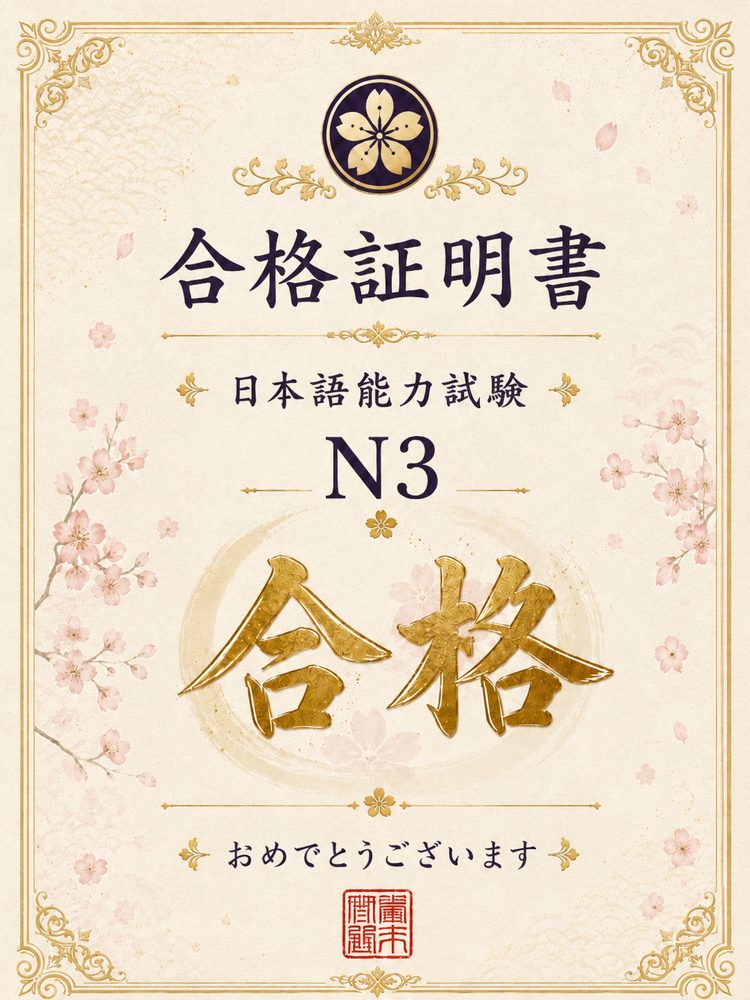
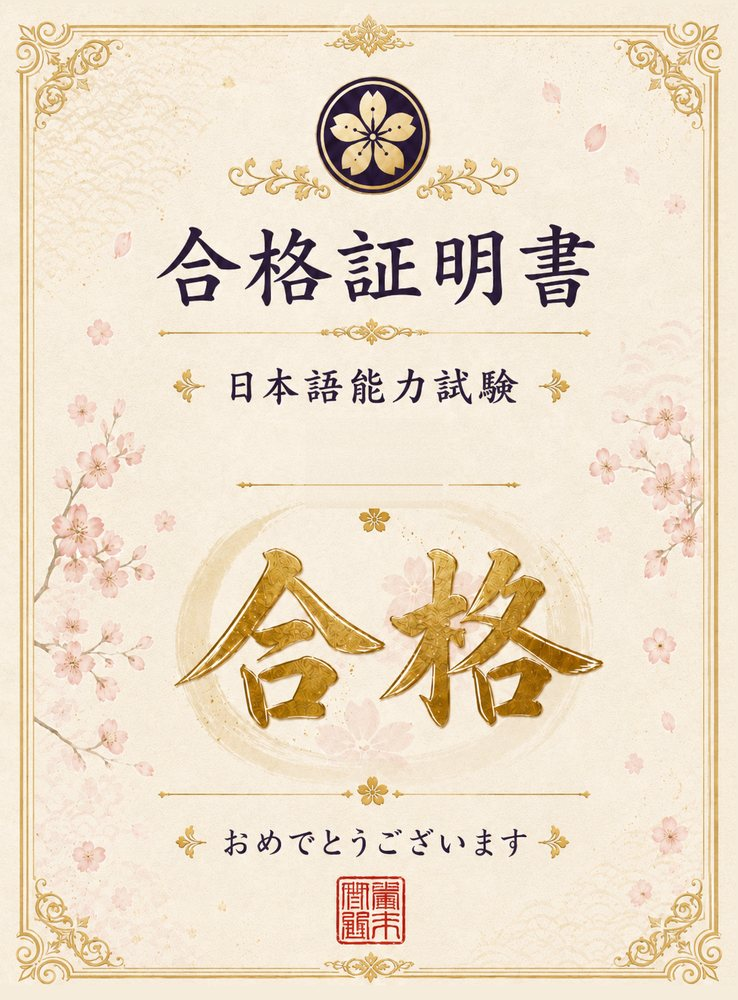
feat(模試/証明書): 証明書のN3を消しレベル文字をアプリ側で重ねてN5/N4/N3に追従(元N3と同位置・濃紺セリフ)＋証明書の4辺余白を統一(下端1px→上下左右そろえ・合格/不合格共通で再最適化)＋結果画面の証明書を中央やや上・程よい大きさに再配置(はみ出し無し・実素材で原寸目視確認済)

diff --git a/src/screens/MockScreen.tsx b/src/screens/MockScreen.tsx
@@ -1,7 +1,7 @@
 // ミニ模試(言語知識20問) / フル模試(全区分=漢字語彙＋文法＋読解＋聴解)。本番形式・客観採点(重み5)。
 // 採点後: 区分別の弱点ヒートマップ → 語彙/文法の弱点だけ復習(Quiz)へ。掲示板§5(UWorld閉ループ)。
 import { useEffect, useMemo, useRef, useState } from 'react';
-import { View, Text, Pressable, StyleSheet, ScrollView, Image, Animated, useWindowDimensions, Alert } from 'react-native';
+import { View, Text, Pressable, StyleSheet, ScrollView, Image, Animated, useWindowDimensions, Alert, Platform } from 'react-native';
 import { SafeAreaView } from 'react-native-safe-area-context';
 import { useNavigation, useRoute, type RouteProp } from '@react-navigation/native';
 import type { NativeStackNavigationProp } from '@react-navigation/native-stack';
@@ -509,9 +509,11 @@ export default function MockScreen() {
     const passed = preview ? preview === 'pass' : (isJft ? !!jftSc?.pass : passJlpt(answers, level));
     // 証明書サイズは画面の縦横の両方で必ず収める(はみ出し防止)。証明書=縦長(3:4=750/1000)。
     const heroW = winW - spacing.lg * 2;                       // 本文パディング内の実幅
-    const certH = Math.round(Math.min(winH * 0.30, heroW * 0.9)); // 高さは画面の30%以内かつ幅からも制限
-    const certW = Math.round(certH * 0.75);                    // 3:4
-    const heroH = Math.round(winH * 0.42);                     // ヒーローの高さ(画面の42%以内・証明書より必ず高い)
+    const certH = Math.round(Math.min(winH * 0.30, heroW * 0.85)); // 程よい大きさ(画面の30%以内かつ幅からも制限)
+    const certW = Math.round(certH * 0.738);                   // 証明書画像の実アスペクト(余白統一後 738/1000)
+    const heroH = Math.round(winH * 0.52);                     // ヒーロー高さ(証明書を中央やや上に置ける縦を確保)
+    const certTop = Math.max(spacing.md, Math.round(heroH * 0.44 - certH / 2)); // 真ん中より少し上
+    const lvlFs = Math.round(certH * 0.105);                   // 証明書に重ねるレベル文字(元N3と同位置・同程度)
     return (
       <SafeAreaView style={s.c}>
         <ScrollView contentContainerStyle={s.body}>
@@ -525,7 +527,11 @@ export default function MockScreen() {
           <View style={[s.certHero, { height: heroH }]}>
             {/* 終了画像はヒーロー枠と同サイズ(cover)。枠外へはみ出さない(Androidの overflow 事情に依存しない安全策)。 */}
             <Image source={IMG_END} style={StyleSheet.absoluteFill} resizeMode="cover" />
-            <Image source={passed ? IMG_CERT_PASS : IMG_CERT_FAIL} style={{ width: certW, height: certH, marginTop: spacing.md }} resizeMode="contain" />
+            {/* 証明書＋レベル文字。証明書はN3を消してあり、ここにレベルを重ねる(元N3と同位置)。 */}
+            <View style={{ width: certW, height: certH, marginTop: certTop }}>
+              <Image source={passed ? IMG_CERT_PASS : IMG_CERT_FAIL} style={StyleSheet.absoluteFill} resizeMode="contain" />
+              <Text style={[s.certLevel, { fontSize: lvlFs, lineHeight: lvlFs, top: Math.round(certH * 0.462 - lvlFs * 0.62) }]}>{level}</Text>
+            </View>
           </View>
           {preview ? <Text style={s.previewNote}>{t('mock.preview_note')}</Text> : null}
           {!preview && (<>
@@ -788,6 +794,8 @@ const makeStyles = (c: ThemeColors) =>
     calcPct: { fontSize: ty.h1, fontWeight: '900', color: c.blue, fontVariant: ['tabular-nums'] },
     // 合否証明書(結果画面上部・模試終了画面を背景に空の辺りへ重ねる)
     certHero: { width: '100%', borderRadius: radius.lg, overflow: 'hidden', backgroundColor: '#cfe3f5', alignItems: 'center', justifyContent: 'flex-start', marginBottom: spacing.md },
+    // 証明書に重ねるレベル文字(元N3の位置・濃紺のセリフ体で証明書に馴染ませる)
+    certLevel: { position: 'absolute', left: 0, right: 0, textAlign: 'center', color: '#1e1e3c', fontWeight: '800', letterSpacing: 1, fontFamily: Platform.OS === 'ios' ? 'Georgia' : 'serif' },
     previewNote: { fontSize: ty.small, color: c.amber, fontWeight: '800', textAlign: 'center', marginTop: spacing.xs },
     promptCard: {
       backgroundColor: c.surface, borderRadius: radius.lg, borderWidth: 1, borderColor: c.line,

diff --git a/memory/session-summary-LATEST.md b/memory/session-summary-LATEST.md
@@ -1,15 +1,15 @@
 # 前セッション圧縮情報
 
 ## 何をしたか
-- ツール呼び出し 14 回・36 ターン
-- 往復 41785 回
+- ツール呼び出し 5 回・13 ターン
+- 往復 41868 回
 
 ## 何が変わったか
 - memory/handoff.md
+- memory/session-summary-LATEST.md
 - content/_manifest.json
 - src/data/content/bundled.generated.ts
-- src/screens/MockScreen.tsx
-- src/i18n/ja.json
+- src/screens/MockIntroScreen.tsx
 
 ## 次の一手
 - **📜 プライバシーポリシー/利用規約の改訂＝引き継ぎ資料あり・未着手（2026-08-09）**: 現行`privacy.html`は「収集しない」前提で**内容が古い**（その後アカウント/クラウド同期/AdMob広告/友だち・紹介が入った）→全面改訂＋`terms.html`新規作成＋App Store/Google Playのプライバシー申告更新が必要。**記載すべき全項目＝`md\プライバシーポリシー_利用規約_記載事項.md`**（第三者=Supabase東京/AdMob/Apple・Google認証/GitHub Pages、ATT、削除依頼、EEA向けUMP等）。次セッションはこのmdから着手。

diff --git a/memory/handoff.md b/memory/handoff.md
@@ -49,14 +49,14 @@
 - a83565e1b69fe6554 general-purpose
 
 ## 直近24時間の変更ファイル（自動）
+- memory/session-summary-LATEST.md
+- memory/handoff.md
 - content/_manifest.json
 - src/data/content/bundled.generated.ts
-- src/screens/MockScreen.tsx
+- src/screens/MockIntroScreen.tsx
 - src/i18n/ja.json
-- assets/mock/mock_cert_fail.jpg
-- assets/mock/mock_cert_pass.jpg
-- assets/mock/mock_end.jpg
-- memory/session-summary-LATEST.md
+- src/screens/ProfileScreen.tsx
+- src/screens/MockScreen.tsx
 
-_自動更新: 2026-08-09 17:53_
+_自動更新: 2026-08-09 19:16_
 <!-- AUTO:END -->
